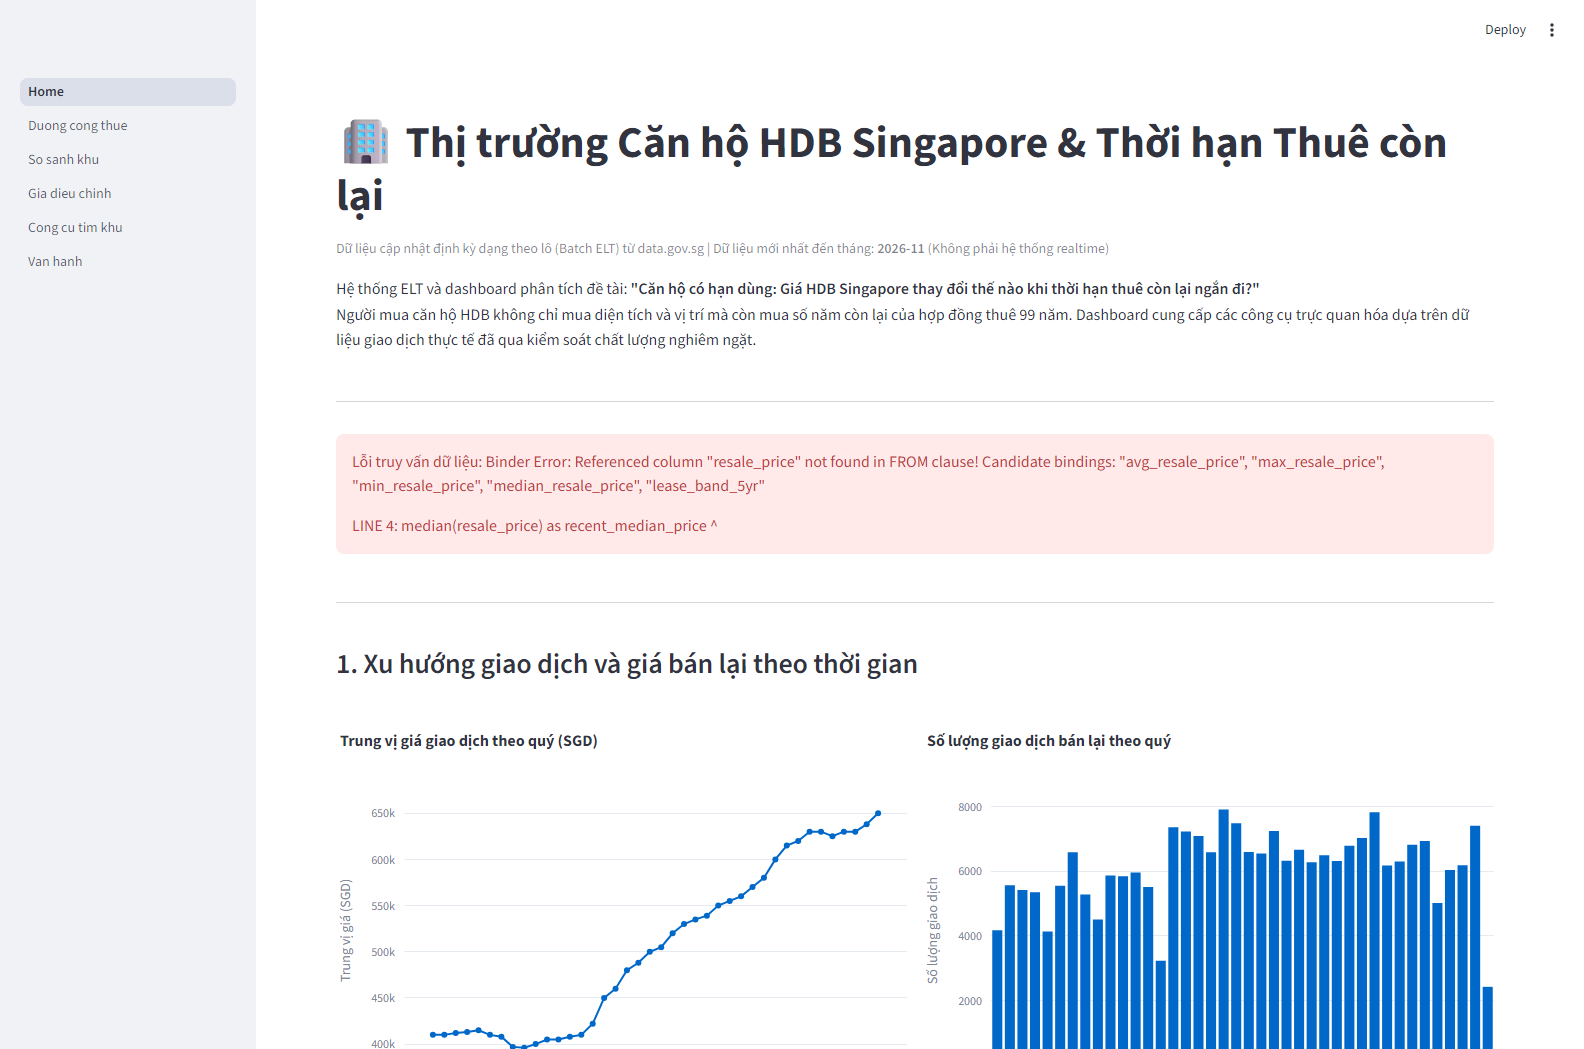
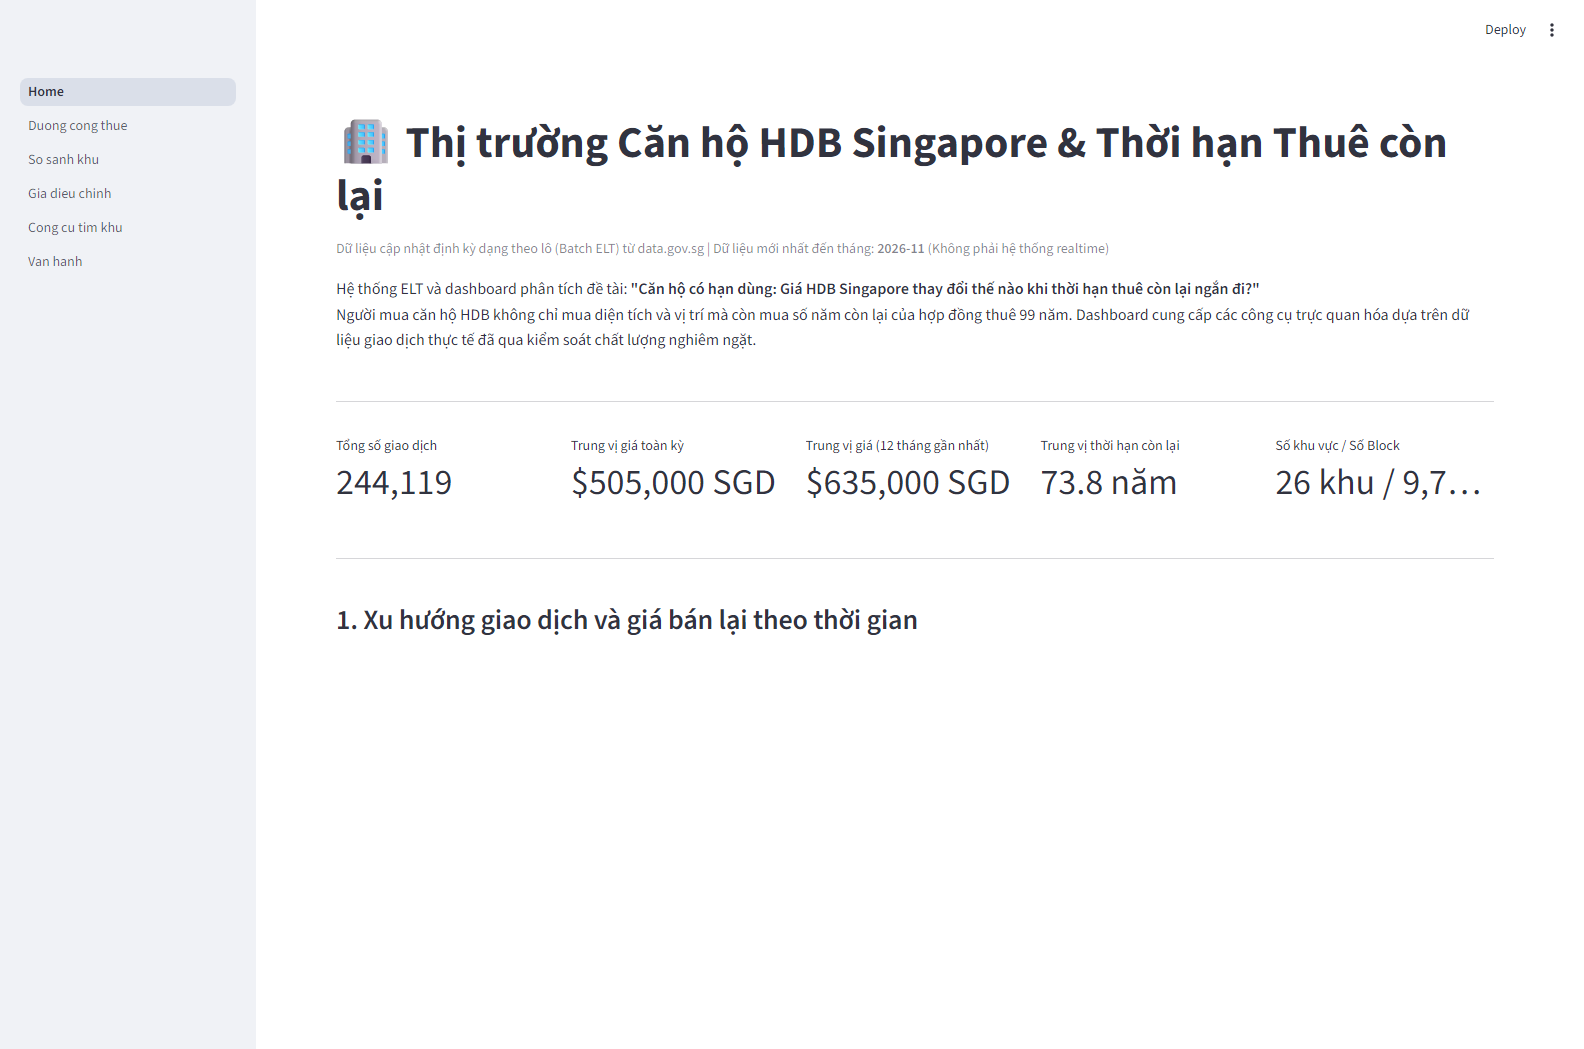
fix(dashboard): resolve binder error in Home KPI query and improve town error bars

diff --git a/app/pages/2_So_sanh_khu.py b/app/pages/2_So_sanh_khu.py
@@ -2,6 +2,7 @@ import streamlit as st
 import plotly.express as px
 import plotly.graph_objects as go
 import pandas as pd
+import numpy as np
 from db import query_df, get_latest_data_date
 
 st.set_page_config(page_title="So sánh chênh lệch giá theo khu", page_icon="🗺", layout="wide")
@@ -50,8 +51,8 @@ else:
         error_y=dict(
             type='data',
             symmetric=False,
-            array=(np_exp_upper := (pd.np.exp(sub["ci_upper"]) - 1.0) * 100 - sub["pct_gap"]) if hasattr(pd, 'np') else None,
-            arrayminus=(sub["pct_gap"] - (pd.np.exp(sub["ci_lower"]) - 1.0) * 100) if hasattr(pd, 'np') else None
+            array=((np.exp(sub["ci_upper"]) - 1.0) * 100 - sub["pct_gap"]).clip(lower=0),
+            arrayminus=(sub["pct_gap"] - (np.exp(sub["ci_lower"]) - 1.0) * 100).clip(lower=0)
         ),
         marker_color="#2ca02c",
         name="Chiết khấu (%)"
@@ -93,3 +94,4 @@ st.warning("""
 - **Không xếp hạng "đáng mua":** Mức chiết khấu lớn tại một số khu vực không đồng nghĩa với việc khu đó "đáng mua hơn". Giá phản ánh tổng hòa của vị trí, cơ sở hạ tầng, mật độ dân cư và nhu cầu thực tế.  
 - Chỉ bao gồm 13 khu vực có đủ thanh khoản giao dịch ở cả hai nhóm thời hạn và hai thời kỳ.
 """)
+

diff --git a/app/Home.py b/app/Home.py
@@ -39,7 +39,11 @@ try:
         SELECT
             count(*) as recent_tx,
             median(resale_price) as recent_median_price
-        FROM main_marts.mart_budget_search;
+        FROM main_marts.fct_resale_transaction
+        WHERE month >= (
+            SELECT strftime(max(strptime(month || '-01', '%Y-%m-%d')) - interval 11 month, '%Y-%m')
+            FROM main_marts.fct_resale_transaction
+        );
     """)
 
     col1, col2, col3, col4, col5 = st.columns(5)
@@ -153,3 +157,4 @@ st.warning("""
 - Giá chưa điều chỉnh lạm phát và các yếu tố nội thất riêng lẻ của từng căn hộ.  
 - Số liệu trung vị thô có thể bị ảnh hưởng bởi tỷ trọng căn hộ mới (MOP) bán ra trong từng thời kỳ. Không dùng để định giá một căn cụ thể.
 """)
+
